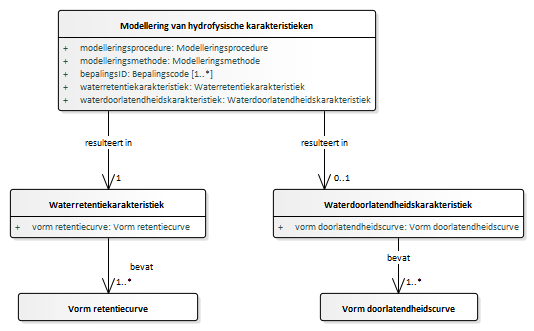
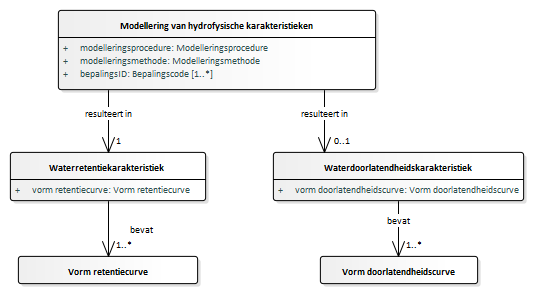
Conceptualmodel-BodemkundigwandonderzoekSFR-1.92.3versie10maart2020-3-20200316-20200317-093454

Changed region(s): [[0.0, 0.0, 0.9888, 0.7959], [0.03, 0.7653, 0.3895, 0.9796], [0.5993, 0.8265, 0.8989, 0.9796]]

diff --git a/data/SFR-cat.msword.html b/data/SFR-cat.msword.html
@@ -13,7 +13,7 @@
    <body>
       <p>Conceptual model/Bodemkundig wandonderzoek (SFR)/20200316</p>
       <p>Imvertor: 1.59.2</p>
-      <p>Model release: Conceptualmodel-BodemkundigwandonderzoekSFR-1.92.3versie10maart2020-3-20200316-20200317-091005</p>
+      <p>Model release: Conceptualmodel-BodemkundigwandonderzoekSFR-1.92.3versie10maart2020-3-20200316-20200317-093454</p>
       <hr>
       <section>
          <h1>Artikel 1 Definitie van registratieobject, entiteiten en attributen</h1>
@@ -21437,11 +21437,11 @@
                </section><a class="anchor" id="graph_EAID_ED8DE5D2_7585_496c_8B3C_F887234EE5BA"></a><a class="anchor" id="global_class_Model_Modelleringvanhydrofysischekarakteristieken"></a><section id="global_class_Model_Modelleringvanhydrofysischekarakteristieken">
                   <h3>   Modellering van hydrofysische karakteristieken</h3>
                   <div class="imageinfo "><img src="Images/EAID_F317D498_7CB1_4e0e_B1D4_915D46785685.png" usemap="#imagemap-EAID_F317D498_7CB1_4e0e_B1D4_915D46785685" alt="Diagram "><map name="imagemap-EAID_F317D498_7CB1_4e0e_B1D4_915D46785685">
-                        <area shape="rect" alt="Vorm doorlatendheidscurve" coords="320,293,478,321" href="#graph_EAID_C235166C_1A71_4de1_A5D2_53E6850A7B38">
-                        <area shape="rect" alt="Waterdoorlatendheidskarakteristiek" coords="273,189,524,238" href="#graph_EAID_0AF057E2_EDD7_4700_B3C4_8BFDC1229F63">
-                        <area shape="rect" alt="Waterretentiekarakteristiek" coords="10,189,206,238" href="#graph_EAID_E4D2D503_2A00_47e1_9BC1_540129FF6621">
-                        <area shape="rect" alt="Vorm retentiecurve" coords="18,293,198,321" href="#graph_EAID_C9AA7519_2AF8_4dd9_89FB_57D75C258967">
-                        <area shape="rect" alt="Modellering van hydrofysische karakteristieken" coords="58,10,376,111" href="#graph_EAID_ED8DE5D2_7585_496c_8B3C_F887234EE5BA"></map><p><b></b></p>
+                        <area shape="rect" alt="Vorm doorlatendheidscurve" coords="320,256,478,284" href="#graph_EAID_C235166C_1A71_4de1_A5D2_53E6850A7B38">
+                        <area shape="rect" alt="Waterdoorlatendheidskarakteristiek" coords="273,152,524,201" href="#graph_EAID_0AF057E2_EDD7_4700_B3C4_8BFDC1229F63">
+                        <area shape="rect" alt="Waterretentiekarakteristiek" coords="10,152,206,201" href="#graph_EAID_E4D2D503_2A00_47e1_9BC1_540129FF6621">
+                        <area shape="rect" alt="Vorm retentiecurve" coords="18,256,198,284" href="#graph_EAID_C9AA7519_2AF8_4dd9_89FB_57D75C258967">
+                        <area shape="rect" alt="Modellering van hydrofysische karakteristieken" coords="58,10,376,90" href="#graph_EAID_ED8DE5D2_7585_496c_8B3C_F887234EE5BA"></map><p><b></b></p>
                   </div>
                   <table style="width: 100%;">
                      <colgroup style="width: 30%;"></colgroup>
